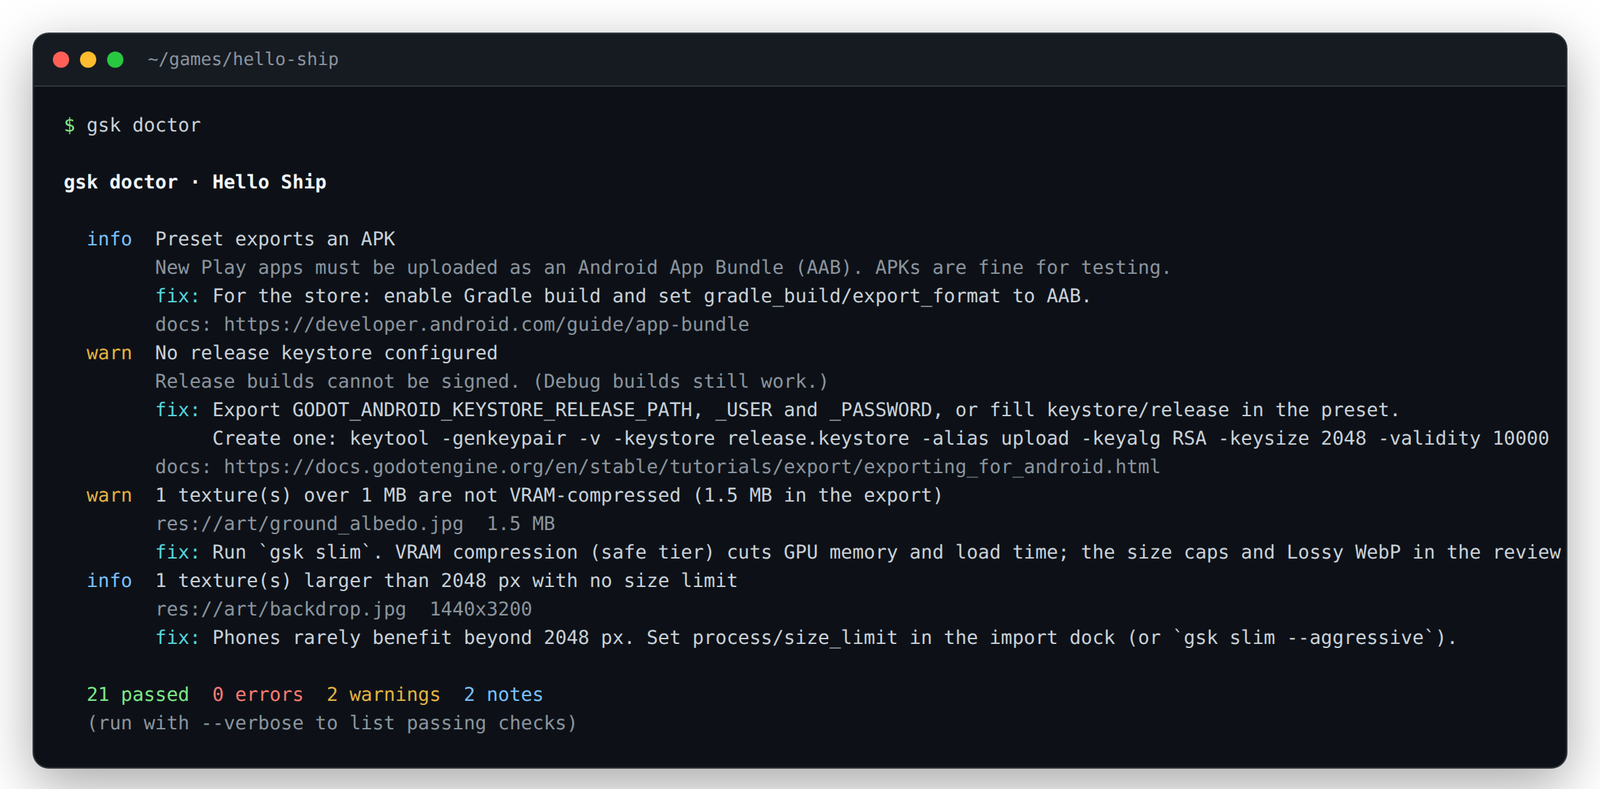
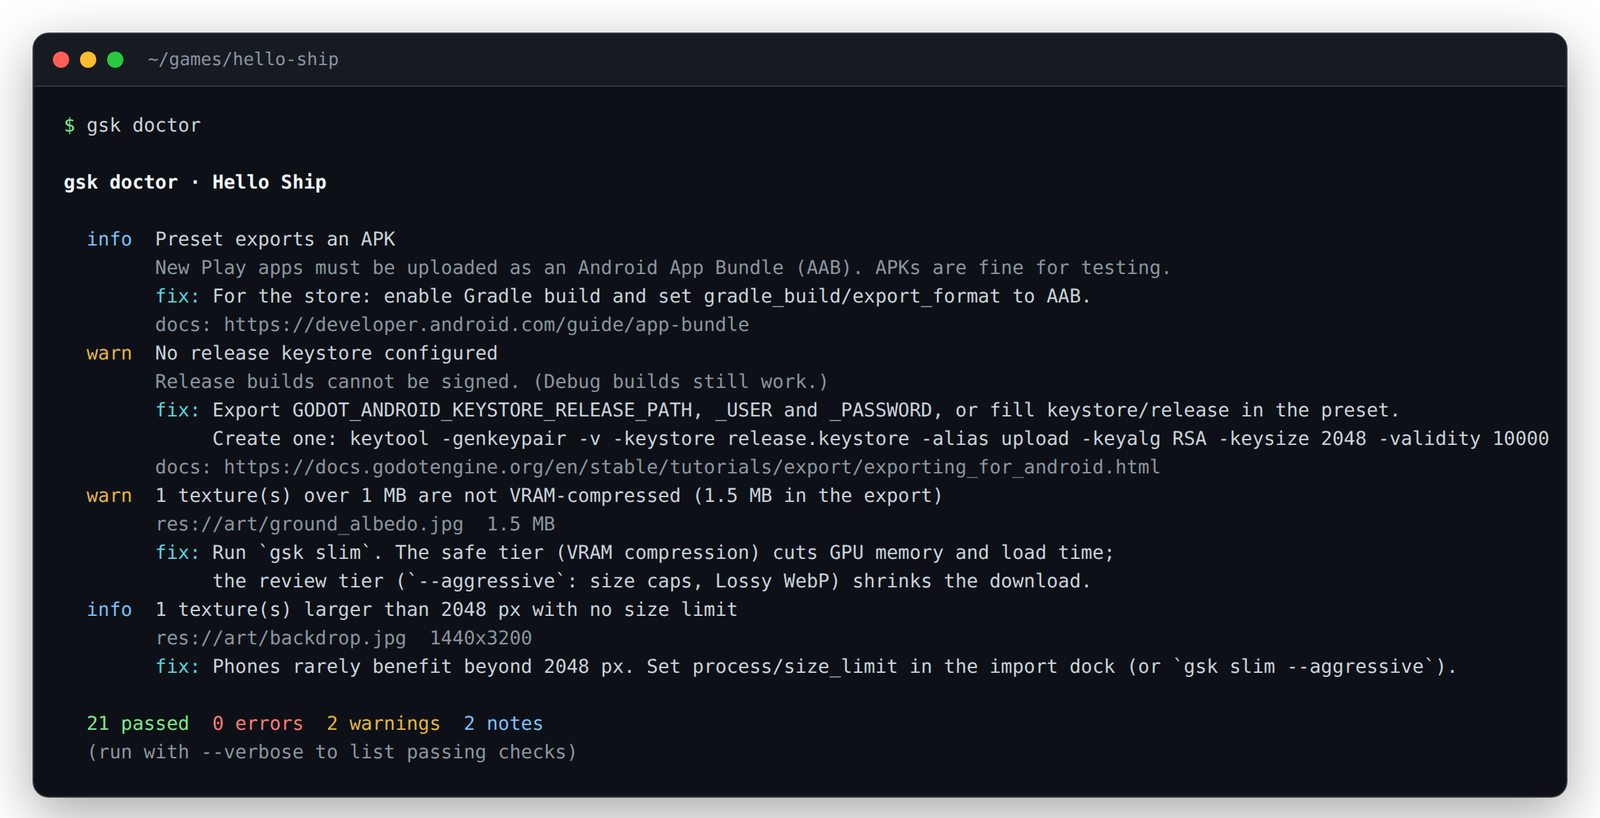
Address final audit; add AUDIT.md
Shots with error alerts are reported as errors even without a
reference, references record the Godot version that made them, device
sizes and numeric options are range-checked, and a few messages and
docs are clearer.

diff --git a/src/godot_ship_kit/cli.py b/src/godot_ship_kit/cli.py
@@ -78,6 +78,9 @@ def cmd_slim(args: argparse.Namespace) -> int:
         except ValueError as exc:
             return _fail(str(exc), EXIT_FAIL)
         if not restored:
+            names = [b.name for b in slim.list_backups(project)]
+            if args.undo and names:
+                return _fail(f"backup {args.undo!r} not found. Available: {', '.join(names)}", EXIT_FAIL)
             return _fail("nothing to undo: no gsk slim backups found.", EXIT_FAIL)
         code, info = _maybe_reimport(project, args)
         if args.json:
@@ -87,6 +90,8 @@ def cmd_slim(args: argparse.Namespace) -> int:
             _print_reimport(info, out)
         return code
 
+    if min(args.max_3d, args.max_2d) < 16 or args.top < 1:
+        return _fail("--max-3d / --max-2d must be at least 16 px and --top at least 1.")
     report = slim.analyze(project, max_3d=args.max_3d, max_2d=args.max_2d, top=args.top)
     chosen = [p for p in report.proposals if p.risk == slim.SAFE or args.aggressive]
 
@@ -238,6 +243,8 @@ def _print_archive(rep: object, out: TextIO, verbose: bool) -> None:
         out.write("\n")
         for key, val in rows:
             out.write(f"  {style.dim(f'{key:<12}')} {val}\n")
+    if not rep.categories:
+        return
     out.write("\n" + style.bold("  What is inside (compressed)") + "\n")
     for cat, size in sorted(rep.categories.items(), key=lambda kv: -kv[1]):
         out.write(f"    {human_bytes(size):>10}  {cat}\n")
@@ -335,6 +342,8 @@ def cmd_eyes(args: argparse.Namespace) -> int:
     if args.output:
         cfg.output = Path(args.output).resolve()
     if args.threshold is not None:
+        if not 0 <= args.threshold <= 1:
+            return _fail("--threshold must be between 0 and 1.")
         cfg.threshold = args.threshold
     if not args.json:
         n = sum(1 for d in cfg.devices for s in cfg.shots if s.devices is None or d in s.devices)
@@ -401,7 +410,12 @@ def cmd_checklist(args: argparse.Namespace) -> int:
     project = _open_project(args.project)
     text = build_checklist(project)
     if args.output:
-        Path(args.output).write_text(text, encoding="utf-8")
+        out_path = Path(args.output)
+        try:
+            out_path.parent.mkdir(parents=True, exist_ok=True)
+            out_path.write_text(text, encoding="utf-8")
+        except OSError as exc:
+            return _fail(f"cannot write {out_path}: {exc.strerror or exc}")
         _out().write(f"Wrote {args.output}\n")
     else:
         _out().write(text)

diff --git a/src/godot_ship_kit/eyes/runner.py b/src/godot_ship_kit/eyes/runner.py
@@ -376,10 +376,12 @@ def analyse_shot(
 
     ref = cfg.references / res.device / f"{res.shot}.png"
     res.reference = ref
+    if any(a.level == "error" for a in res.alerts):
+        res.status = "error"  # a broken capture is never compared, and never saved as a reference
+        if not ref.is_file():
+            res.reference = None
+        return
     if update:
-        if any(a.level == "error" for a in res.alerts):
-            res.status = "error"  # never save a broken capture as the reference
-            return
         _ensure_gdignore(cfg.references)
         ref.parent.mkdir(parents=True, exist_ok=True)
         cmp.save_optimized(res.image, ref)
@@ -468,4 +470,28 @@ def run(
                     res.facts = {}
             analyse_shot(res, cfg, s, update)
             results.append(res)
+    _note_godot_version(cfg, godot, results, update)
     return EyesRun(project, cfg, godot, results, method, started, time.time() - t0, update)
+
+
+def _note_godot_version(cfg: EyesConfig, godot: GodotBinary, results: list[ShotResult], update: bool) -> None:
+    """References record the Godot version that made them; text rendering changes between releases."""
+    marker = cfg.references / "godot-version.txt"
+    if update:
+        if any(r.status == "updated" for r in results):
+            marker.write_text(godot.short + "\n", encoding="utf-8")
+        return
+    try:
+        made_with = marker.read_text(encoding="utf-8").strip()
+    except OSError:
+        return
+    if made_with and made_with != godot.short:
+        for r in results:
+            if r.status == "changed":
+                r.alerts.append(
+                    Alert(
+                        "info",
+                        f"References were made with Godot {made_with}, this run used {godot.short}; "
+                        "text and antialiasing differ between releases. Check the crops, then --update.",
+                    )
+                )

diff --git a/tests/test_eyes.py b/tests/test_eyes.py
@@ -228,3 +228,18 @@ def test_render_capture_script(tmp_path: Path) -> None:
     assert "@@" not in text
     with pytest.raises(EyesError):
         render_capture_script(720, 1600, tmp_path, 60, [Shot("x", "res://x.tscn", actions=[{"jump": 1}])])
+
+
+def test_error_alert_without_reference_is_an_error(tmp_path: Path, example: Path) -> None:
+    cfg = load_config(GodotProject.open(example))
+    cfg.output, cfg.references = tmp_path / "out", tmp_path / "refs"
+    black = tmp_path / "black.png"
+    Image.new("RGB", (200, 400)).save(black)
+    res = ShotResult("menu", "phone", "res://scenes/menu.tscn", "error", image=black)
+    analyse_shot(res, cfg, Shot("menu", "res://scenes/menu.tscn"), update=False)
+    assert res.status == "error" and res.reference is None
+
+
+def test_device_size_bounds() -> None:
+    with pytest.raises(EyesConfigError, match="out of range"):
+        device_size("99999x99999")

diff --git a/src/godot_ship_kit/doctor.py b/src/godot_ship_kit/doctor.py
@@ -919,8 +919,8 @@ def _check_textures(ctx: DoctorContext, _: str | None) -> list[Finding]:
                 S.WARN,
                 f"{len(heavy)} texture(s) over 1 MB are not VRAM-compressed ({human_bytes(total)} in the export)",
                 "\n".join(f"{e.res_path}  {human_bytes(e.shipped_bytes)}" for e in heavy[:5]) + ("\n..." if len(heavy) > 5 else ""),
-                "Run `gsk slim`. VRAM compression (safe tier) cuts GPU memory and load time; the size caps "
-                "and Lossy WebP in the review tier (`--aggressive`) are what shrink the download.",
+                "Run `gsk slim`. The safe tier (VRAM compression) cuts GPU memory and load time;\n"
+                "the review tier (`--aggressive`: size caps, Lossy WebP) shrinks the download.",
             )
         )
     big = []

diff --git a/tests/test_cli.py b/tests/test_cli.py
@@ -89,3 +89,10 @@ def test_errors_go_to_stderr(example: Path, monkeypatch, capsys) -> None:  # typ
     captured = capsys.readouterr()
     assert captured.err.startswith("gsk: Godot not found")
     assert json.loads(captured.out) == {"ok": False, "error": captured.err.removeprefix("gsk: ").strip()}
+
+
+def test_cli_argument_checks(example: Path, tmp_path: Path, capsys) -> None:  # type: ignore[no-untyped-def]
+    assert main(["slim", str(example), "--max-3d", "-5"]) == 2
+    out = tmp_path / "new" / "dir" / "PLAY.md"
+    assert main(["play-checklist", str(example), "-o", str(out)]) == 0 and out.is_file()
+    assert main(["slim", str(example), "--undo", "nope"]) == 1

diff --git a/src/godot_ship_kit/eyes/config.py b/src/godot_ship_kit/eyes/config.py
@@ -64,7 +64,10 @@ def device_size(name: str) -> tuple[int, int]:
         return DEVICES[name]
     m = re.fullmatch(r"(\d{2,5})x(\d{2,5})", name)
     if m:
-        return int(m.group(1)), int(m.group(2))
+        w, h = int(m.group(1)), int(m.group(2))
+        if not (64 <= w <= 8192 and 64 <= h <= 8192):
+            raise EyesConfigError(f"Device size {name} is out of range (64 to 8192 px per side).")
+        return w, h
     raise EyesConfigError(f"Unknown device '{name}'. Use one of {', '.join(DEVICES)} or WIDTHxHEIGHT.")
 
 

diff --git a/AUDIT.md b/AUDIT.md
@@ -1,0 +1,96 @@
+# Pre-release audit (v0.1.0)
+
+Three rounds of independent review before the first public release, each run by a
+reviewer that had not seen the code before, followed by fixes. This file records what was
+found and what was done about it. Dates: 2026-11-04.
+
+## How it was tested
+
+- `ruff check`, `ruff format --check`, `mypy --strict`: clean.
+- `pytest`: 95 tests. Unit tests fake Godot, the Android SDK, apksigner, aapt2, zipalign and
+  bundletool; the end-to-end tests run a real Godot 4.6.3 under xvfb + llvmpipe.
+- The sample project (`examples/hello-ship`) was exercised with every command: doctor, slim
+  (apply, re-import, undo), debug APK and AAB builds with verification (bundletool,
+  jarsigner, apksigner, zipalign), eyes (match, regressions, overflow, strict warnings),
+  play-checklist and the MCP server.
+- A fresh Ubuntu 24.04 container with the official Godot 4.6.3 download reproduced the
+  committed reference screenshots exactly, and ran the GitHub Action's steps (checksum
+  verification of Godot and the export templates included).
+- The capture script was run on Godot 4.2.2, 4.4.1, 4.5.1 and 4.6.3, and in a project that
+  treats untyped and unsafe GDScript as errors.
+- A real, shipped 3D Godot 4.6 game (about 3 GB of sources, 1145 imported assets) was used
+  read-only, on a copy: doctor (2 s), slim (2 s; safe tier applied and re-imported:
+  predicted -6.3 MB / -169 MB GPU, measured -5.0 MB), eyes on its main scene (50 s), and
+  verify on its released 352 MB APK.
+
+## Round 1: security, code quality, docs and "would I star it"
+
+| Area | Finding | Resolution |
+| --- | --- | --- |
+| Security (high) | `slim --undo` trusted paths in `manifest.json`; a crafted backup could overwrite files outside the project. | Only `.import` files inside both the backup and the project are restored; symlinks refused; nothing is restored if any entry is bad. Test added. |
+| Security | `gsk.toml` `output` / `references` could point outside the project. | Must resolve inside the project (an explicit `--output` is still allowed). |
+| Security | Symlinked or special `.import` files were followed (writes outside, `/dev/zero` memory exhaustion). | Only regular files up to 16 MB are read. |
+| Security | Plain-text passwords in a committed `export_presets.cfg` were not flagged; build logs were echoed raw. | New `git.preset_secrets` check (values never shown); logs stripped of escape codes, signing values masked, written `0600`. |
+| Security | `git` run on untrusted repositories. | `core.fsmonitor=false` on every call. |
+| Correctness (high) | Name-based normal-map detection matched words such as `NormalTree`, which would have wrecked colour maps. | Token-based detection; name-only 3D guesses moved to the review tier. |
+| Correctness | Standalone `.tres` materials, `Sprite3D` and `Decal` textures were not recognised as 3D. | Section-aware material parser. |
+| Correctness | .NET builds looked for the wrong template folder; Godot 4.0-4.2 editor settings file name. | `.mono` templates, `godot.dotnet` check, per-version settings file. |
+| Correctness | AAB 16 KB check gave false warnings; whole-file AAB size compared with the base-module limit. | 16 KB support read from ELF program headers of every 64-bit `.so`; sizes per module and asset pack. |
+| Correctness | Capture script failed to parse in projects with strict GDScript warnings. | The shot list is now generated as fully typed GDScript; e2e test with strict warnings. |
+| Correctness | A one-word UI change could still count as a match. | Stricter defaults plus a largest-changed-region rule. |
+| Correctness | `slim --apply --json` printed text after the JSON; Windows line endings rewritten. | All JSON outputs are single documents (tested); line endings preserved. |
+| UX | `gsk build` without a keystore ran a full export, then failed without a hint. | Release builds stop before exporting with clear next steps; `--install-template` added. |
+| UX | `skill print` put YAML front matter into `AGENTS.md`. | Front matter dropped unless `--frontmatter`. |
+| Docs | Install steps failed on externally managed Pythons; inconsistent check counts; screenshots showed noise. | venv in the quick start, numbers aligned, images regenerated. |
+| Reach | No MCP server, no one-line CI integration. | `gsk mcp` and a composite GitHub Action added. |
+
+## Round 2: security and correctness, docs and stars, an agent using the tool
+
+| Area | Finding | Resolution |
+| --- | --- | --- |
+| Security (high) | MCP tool arguments starting with `--` were parsed as options (`--godot=/tmp/evil.sh` ran a binary). | Options use `--flag=value` and paths follow `--`; arguments are type-checked. Test with a hostile binary. |
+| Robustness (high) | One malformed MCP request ended the server. | Every request is isolated; errors come back as tool errors or JSON-RPC errors. |
+| Correctness | Bad `gsk.toml` values produced tracebacks (exit 1, indistinguishable from a verdict). | Full validation with clear messages and exit 2. |
+| Correctness | Small colour shifts (delta 21-23) and a changed comma passed. | Per-pixel tolerance 24 to 8, region rule 40 to 20 px. All three cases now fail; unchanged scenes still match exactly. |
+| Correctness | Actions on missing nodes or unknown input actions were silent, and broken shots could be saved as references. | They are error alerts, and error captures are never saved. |
+| Correctness | AAB signatures and debuggable flags were not checked. | jarsigner verification; debuggable check on release. |
+| Correctness | Unreadable ELF headers were reported as 16 KB-ready. | Reported as unknown. |
+| Agent UX (high) | A card wider than a 720 px phone produced no alert; only the crops showed it. | New "UI runs off the screen" alert naming the Control and the overflow in pixels; e2e test. |
+| Agent UX | Status was `pass` in JSON and `match` elsewhere; stale crops from earlier runs remained; relative paths in JSON. | `match` everywhere, per-shot cleanup at the start of a run, absolute paths. |
+| Agent UX | `slim`'s safe tier can grow the download, which contradicted doctor's advice. | Both now say plainly: safe tier cuts GPU memory, review tier shrinks the download. |
+| Docs (high) | A fresh clone (no `.godot/`) rendered garbage, so the documented CI snippet would fail. | `gsk eyes` imports a fresh checkout first; `--strict` makes missing references fail. |
+| Docs | Hero GIF looked staged. | Rebuilt from real command output and the real crop, without added highlights. |
+| Docs | Version support claim not backed by CI. | CI matrix job for Godot 4.2, 4.4 and 4.5. |
+| Other | Action split arguments unsafely; MCP stdin could be read by child processes; JSON errors left stdout empty; debug and release builds overwrote each other. | `shlex` splitting, `stdin=DEVNULL` everywhere, JSON error objects, `-debug` suffix. |
+
+## Round 3: full re-audit
+
+Result: no launch blockers, quality 8.5/10. All earlier fixes were spot-checked and held.
+No secrets in any output, no watermarks or private references in the repository or its
+history, all commits authored as `vladosskins178`.
+
+Fixed after the re-audit:
+
+- A shot with an error alert and no reference was counted as `new` (summary said "0
+  errors"). It is now `error`.
+- Device sizes are limited to 64-8192 px; `--threshold`, `--max-3d`, `--max-2d`, `--top`
+  are range-checked.
+- `play-checklist -o` creates missing folders; `slim --undo <name>` lists the backups that
+  exist; `verify` on a corrupt file no longer prints empty sections.
+- References now record the Godot version (`godot-version.txt`); a changed shot under a
+  different version gets an explanatory note.
+- `SECURITY.md` scope, two undocumented check ids, the Action fails early on non-Linux
+  runners, doctor screenshot regenerated.
+
+## Known limitations and follow-ups
+
+- **Before publishing:** push, wait for CI to pass on GitHub (the workflow, including the
+  Godot 4.2/4.4/4.5 matrix, has only been run locally and in containers), then tag
+  `v0.1.0` and a moving `v0` tag; the README's `uses: ...@v0` depends on it. Confirm the
+  repository name `vladosskins178/godot-ship-kit` matches the URLs in the docs.
+- Not on PyPI yet; install is from the Git URL.
+- The 16 KB check covers LOAD segment alignment; Google's page also mentions RELRO
+  alignment, which is not checked yet.
+- `gsk eyes` uses software rendering: GPU-specific bugs and performance still need a
+  real device. References belong to a Godot version.
+- The Claude Code plugin manifest passes `claude plugin validate` (one warning: no icon).

diff --git a/README.md b/README.md
@@ -142,7 +142,8 @@ Full reference: [docs/eyes.md](docs/eyes.md).
 Software rendering is deterministic, which is what makes reference images work: the
 sample project renders identical captures run after run, on the author's machine and in
 a fresh Ubuntu 24.04 container with the official Godot download. References belong to a Godot
-version (text rasterisation changes between releases), so regenerate them when you
+version (text rasterisation changes between releases): gsk records the version in
+`godot-version.txt` next to them and says so when it differs, so regenerate them when you
 upgrade. Software rendering shows layout, colour, composition and missing assets; it
 does not show real-device performance. CI runs the capture script on Godot 4.2, 4.4, 4.5
 and 4.6, and against a project that treats untyped or unsafe GDScript as errors.
@@ -282,8 +283,8 @@ on a headless server. The two work fine side by side.
 
 ## CI
 
-The repository is also a GitHub Action. It downloads Godot (checksum verified), installs
-gsk and the software-rendering packages, and runs a gsk command:
+The repository is also a GitHub Action (Linux runners). It downloads Godot (checksum
+verified), installs gsk and the software-rendering packages, and runs a gsk command:
 
 ```yaml
 - uses: vladosskins178/godot-ship-kit@v0

diff --git a/CHANGELOG.md b/CHANGELOG.md
@@ -15,8 +15,10 @@ First public release.
   references by SSIM, changed-pixel share and largest connected change; diff images,
   changed-region and zoom crops; scene alerts (black or flat frame, meshes without
   materials, no camera, nothing in view, idle rigs, engine errors); HTML, Markdown and
-  JSON reports; `--update` to save references. The capture script is generated as typed
-  GDScript, works on Godot 4.2 to 4.6 and in projects with strict warning settings.
+  JSON reports; `--update` to save references (tagged with the Godot version), `--strict`
+  for CI, automatic import of a fresh checkout. The capture script is generated as typed
+  GDScript and works on Godot 4.2 to 4.6 and in projects with strict warning settings.
+  Alerts also cover UI that runs off the screen and failed shot actions.
 - `gsk doctor`: around 40 checks across toolchain (Godot, export templates including .NET,
   Android SDK, JDK 17, Gradle build template), export preset (package name, version,
   architectures, APK/AAB, target and min SDK from the template in use, permissions,

diff --git a/docs/checks.md b/docs/checks.md
@@ -7,6 +7,7 @@ will probably hurt you (rejection, crash on some phones, a much bigger download)
 | Id | Looks at | Severity when it fires |
 | --- | --- | --- |
 | `project` | project name, Godot version and features | - |
+| `project.version` | the project is a Godot 4 project (`config_version=5`) | error |
 | `project.main_scene` | a main scene is set and exists | error |
 | `godot.binary` | Godot 4 binary from `--godot`, `$GODOT` or PATH | error |
 | `godot.version` | binary minor version matches `config/features` | warn |
@@ -52,6 +53,7 @@ will probably hurt you (rejection, crash on some phones, a much bigger download)
 
 | Id | Looks at | Severity when it fires |
 | --- | --- | --- |
+| `archive.exists` | the file to verify was produced | error |
 | `archive.zip` | zip structure and CRC of every entry | error |
 | `archive.arm64` | `arm64-v8a` native code present | error |
 | `archive.size` | APK size, or the AAB base module (500 MB) and each asset pack (1.5 GB), plus the 200 MB mobile-data warning | error / warn |

diff --git a/SECURITY.md b/SECURITY.md
@@ -5,7 +5,8 @@ is complete. It never prints, logs or stores those values, and gsk itself makes 
 requests (Gradle, started by `gsk build`, may download build dependencies).
 
 If you find a way to make `gsk` reveal a secret, write outside the project or its own
-`.gsk/` folder (other than the editor settings file `gsk configure` is asked to change),
+`.gsk/` folder (other than paths you pass explicitly, such as `-o`, `--output`,
+`gsk skill install` or the editor settings file `gsk configure` is asked to change),
 or run unexpected commands, please report it privately through GitHub's
 [security advisory form](https://github.com/vladosskins178/godot-ship-kit/security/advisories/new)
 rather than a public issue. You will get a reply within a few days.
